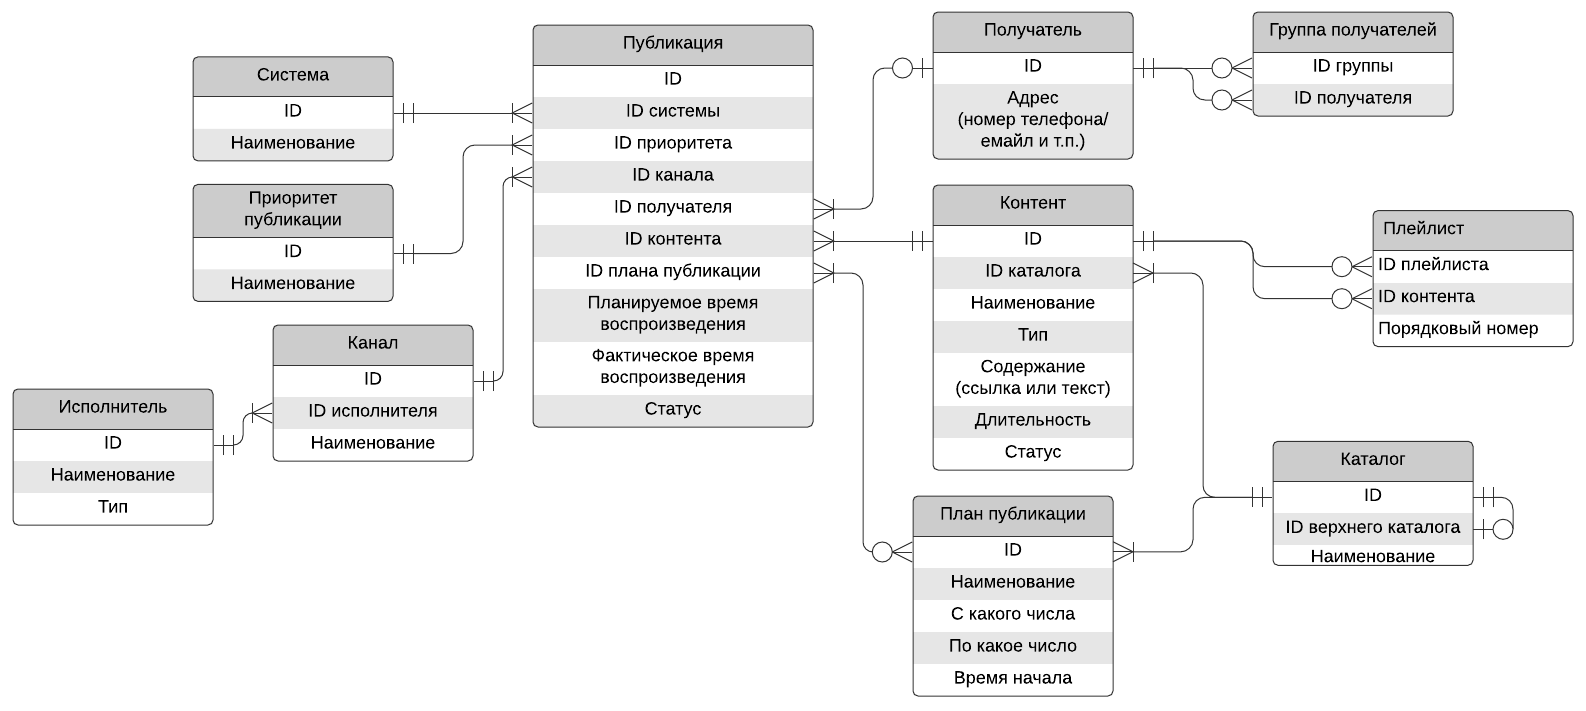
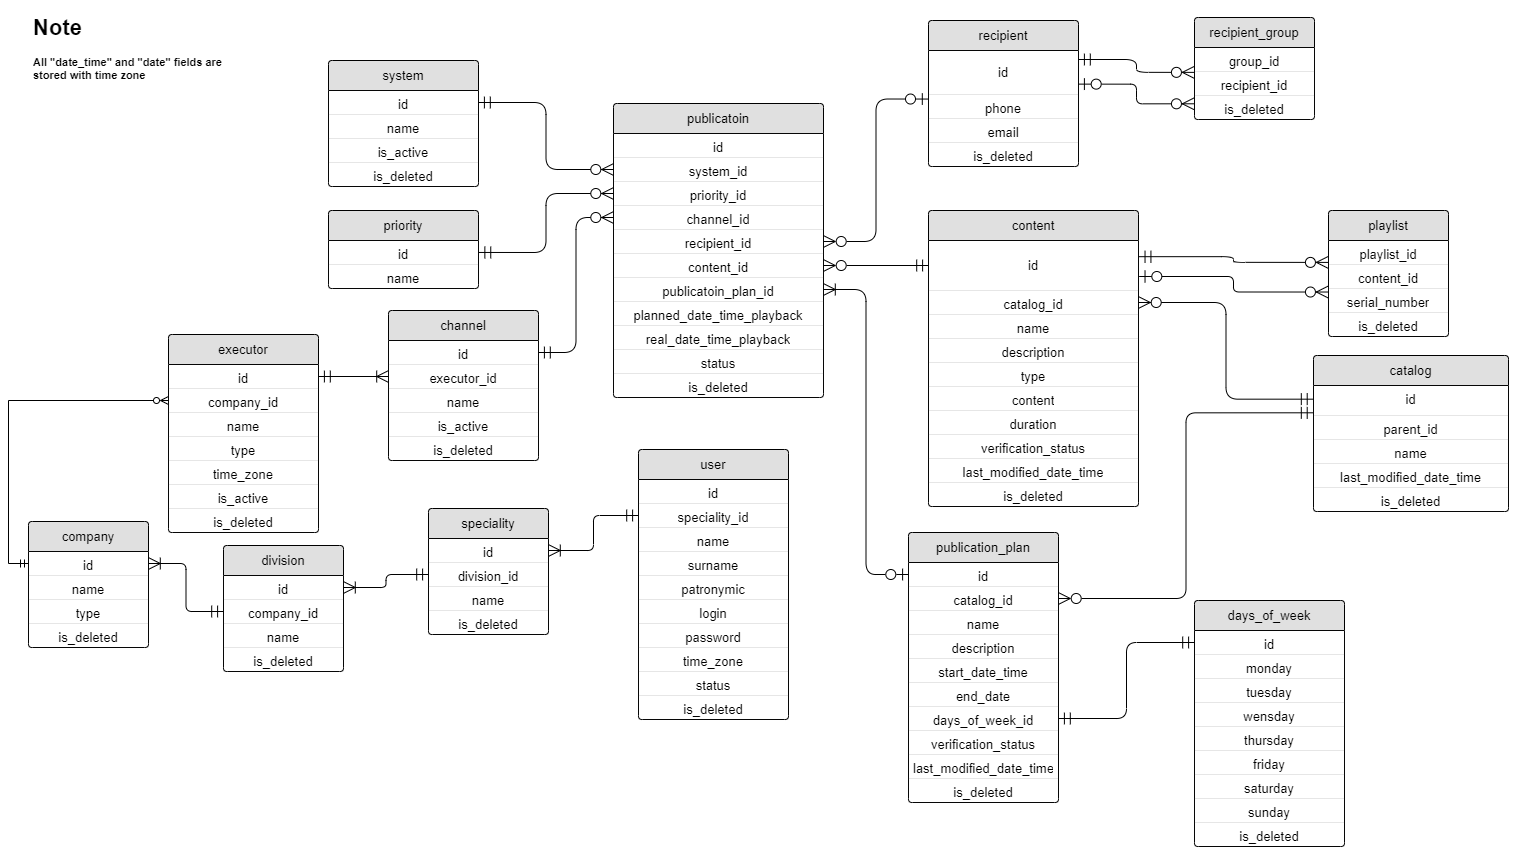
Обновлена база данных и ее схема

Changed region(s): [[0.0, 0.0, 1.0, 0.9902], [0.7411, 0.557, 0.9882, 1.0], [0.1544, 0.7736, 0.2162, 0.8045]]

diff --git a/vokzal-documentation.md b/vokzal-documentation.md
@@ -44,16 +44,16 @@ ___
 * Событие - ситуация во внешней среде, о которой нужно проинформировать.
 События делятся на типы. Когда событие происходит его тип и информация о нем передается внешним источником в систему.
 * Шаблон события - файл, в который подставляется, передаваемая с типом события. Для большинства типов события задан шаблон.
-* Контент - аудио-, видео- или текстовый файл.
-* Плейлист - отсортированный список пронумерованного контента, публикуемый и исполняемый целиком.
 * Действие - операция, совершаемая при обработке события.
 * Сценарий - последовательность действий.
-* Публикация - совокупность контента и информации о том, как его публиковать
+* Контент (content) - аудио-, видео- или текстовый файл.
+* Плейлист (playlist) - отсортированный список пронумерованного контента, публикуемый и исполняемый целиком.
+* Публикация (publication) - совокупность контента и информации о том, как его публиковать
 (приоритет публикации, какая система ее создала, кому она адресована, в какое время планируем ее воспроизвести,
 в какое время она была воспроизведена, длительность, статус).
-* План публикации - алгоритм, описывающий сколько раз, в течении какого отрезка времени нужно повторять публикацию.
-* Получатель - человек, которого нужно проинформировать о событии или показать ему контент.
-* Группа получателей - получатели, объединенные по какому-либо общему признаку. Например, пассажиры одного рейса.
+* План публикации (publication plan) - алгоритм, описывающий сколько раз, в течении какого отрезка времени нужно повторять публикацию.
+* Получатель (recipient) - человек, которого нужно проинформировать о событии или показать ему контент.
+* Группа получателей (recipient group) - получатели, объединенные по какому-либо общему признаку. Например, пассажиры одного рейса.
 
 ### Основные компоненты системы
 * Шлюз событий. Получает из внешней системы тип и информацию о событии, преобразует в формат понятный
@@ -69,7 +69,8 @@ ___
  На основе этой выборки сигнализирует шлюзу исполнения о том, что нужно показать тот или иной контент,
   передает шлюзу сам контент или ссылку на него.
 * Шлюз исполнения. Забирает контент из хранилища, если необходимо форматирует и передает исполнителю.
-* Исполнитель - внешние устройство, показывающее контент пассажирам. Исполнитель имеет один и более каналов для показа контента.
+* Исполнитель (executor) - внешние устройство, показывающее контент пассажирам. Исполнитель имеет один или более каналов для показа контента.
+* Канал (channel) - компонент исполнителя, предназначенный для вывода информации.
 
 
   ![](pictures/skhema_vzaimodeystvia_componentov.png "Схема взаимодействия компонентов")
@@ -88,27 +89,133 @@ ___
 ![](pictures/componenti_servernoy_chasti.png "Схема взаимодействия компонентов серверной части")
 
 ### Схема базы данных
-Основной сущностью в базе данных является публикация. Она имеет следующие поля:
-* ID
-* ID системы (СОС или СФП), создавшей запись в таблице "Публикация".
-* ID приоритета. Приоритет показывает насколько важно показать пассажирам контент из публикации
-* ID канала. В таблице "Исполнитель" хранится информация об устройстве, на которое передается контент.
-Устройство может иметь несколько каналов вывода (например, динамик с разными каналами). В таблице "Канал"
-хранится информация о каналах, на которые посылается публикация.
-* ID получателя. Указывается при отправке публикации СМС-сообщением или на почту.
-* ID контента, который будет показан пассажирам.
-* ID плана публикации, в соответствии с которым публикация была создана.
-* Планируемое время воспроизведения публикации.
-* Фактическое время воспроизведения публикации.
-* Статус публикации
 
-В базе данных плейлист хранится как контент, в который вложен другой контент. То есть если поле ID в таблице 
-"Контент" связано с полем ID плейлиста в таблице "Плейлист", то этот контент является плейлистом. Если поле ID в таблице
-"Контент" связано с полем ID контента в таблице "Плейлист", то этот контент входит в плейлист, ID которого записано в 
-поле ID плейлиста, порядковый номер этого контента в плейлисте записан в поле Порядковый номер.
+_Примечание. Все поля date_time и date хранятся с часовым поясом._
+
+**system - таблица систем (СОС, СФП)**
+* name - наименования системы
+* is_active - показывает, в рабочем ли состоянии система (true, false)
+* is_deleted - удалена ли система (true, false; записи в базе не удаляются, а помечаются как удаленные)
 
 
-Аналогично, группа получателей является получателем, содержащим других получателей.
+**executor - таблица исполнителей**
+* company_id - id компании, которой принадлежит исполнитель
+* name - наименование исполнителя
+* type - тип исполнителя (динамик, табло, устройство для отправки смс или электронной почты)
+* time_zone - часовой пояс, в котором находится исполнитель
+* is_active - показывает, в рабочем ли состоянии устройство (true, false)
+* is_deleted - удален ли исполнитель (true, false)
+
+
+**channel - таблица каналов**
+* device_id - id исполнителя, к которому принадлежит канал
+* name - наименование канала
+* is_active - показывает, в рабочем ли состоянии канал (true, false)
+* is_deleted - удален ли канал (true, false)
+
+
+**recipient - таблица получателей**
+* phone - номер телефона
+* email - электронная почта
+* is_deleted - удален ли получатель (true, false)
+
+
+**recipient_group - таблица для связи групп и получателей**
+
+Группа получателей хранится в базе как получатель, включающий в себя других получателей.
+То есть, если запись в таблице recipient связана с записью в таблице recipient_group по group_id,
+то этот получатель является группой. Если запись в таблице recipient связана с записью в таблице recipient_group
+по recipient_id, то этот получатель входит в группу.
+* group_id - показывает, какая запись в таблице получателей является группой
+* recipient_id - показывает, что получатель, id которого записан в этом поле, принадлежит группе, id которой
+записан в поле group_id
+* is_deleted - удалена ли связь (true, false)
+
+
+**content - таблица контента**
+* catalog_id - id каталога, в котором находится контент
+* name - наименование контента
+* description - описание контента
+* type - тип контента (видео, аудио, текст)
+* content - содержание контента (текст или ссылка на файл в хранилище контента)
+* duration - длительность контента (для аудио- или видео-контента)
+* verification_status - статус проверки (не проверен, допущен, не допущен)
+* last_modified_date_time - дата последнего изменения
+* is_deleted - удален ли контент (true, false)
+
+
+**playlist - таблица для связи контента и плейлистов**
+
+Плейлист хранится в базе как контент, содержащий другой контент, аналогично с группой получателей.
+* playlist_id - показывает, какой контент является плейлистом
+* content_id - показывает, что контент входит в плейлист
+* is_deleted - удалена ли связь (true, false)
+
+
+**catalog - таблица каталогов**
+* parent - id каталога, в котором находится данный
+* name - наименование каталога
+* last_modified_date_time - дата и время последнего изменения
+* is_deleted - удален ли каталог (true, false)
+
+**publication_plan - таблица планов публикации**
+* catalog_id - id каталога, в котором находится данный план
+* name - наименование плана публикации
+* description - описание плана публикации
+* start_date_time - дата и время начала публикации
+* end_date - дата окончания публикации
+* days_of_week_id - id записи в таблице days_of_week, показывающей по каким дням недели нужно публиковать
+* verification_status - статус проверки (не проверен, допущен, не допущен)
+* last_modified_date_time - дата и время последнего изменения
+* is_deleted - удален ли план публикации (true, false)
+
+**priority - таблица приоритетов публикации**
+* id - чем больше id, тем приоритетнее публикация
+* name - наименование приоритета
+
+**publication - таблица публикаций**
+* system_id - id системы, создавшей публикацию
+* priority_id - id приоритета публикации
+* channel_id - id канала, на который будет передана публикация
+* recipient_id - id получателя
+* content_id - id контента, который содержит публикация
+* publication_plan_id - id плана публикации
+* planned_date_time_playback - запланированная дата и время публикации
+* real_date_time_playback - настоящая дата и время публикации
+* status - статус публикации (выполнена, отложена, отменена)
+* is_deleted - удалена ли публикация (true, false)
+
+**company - таблица предприятий, работающих в системе**
+* name - наименование предприятия
+* type - тип предприятия (предположительно: вокзал, рекламодатель, перевозчик)
+* is_deleted - удалено ли предприятие (true, false)
+
+**division - таблица подразделений**
+* company_id - компания, к которой относится подразделение
+* name - имя подразделение
+* is_deleted - удалено ли подразделение (true, false)
+
+**speciality - таблица специальностей**
+* division_id - id подразделения, к которому относится данная специальность
+* name - наименование специальности
+* is_deleted - удалена ли специальность (true, false)
+
+**user - таблица пользователей**
+* speciality_id - id специальности пользователя
+* name - имя
+* surname - фамилия
+* patronymic - отчество
+* login - логин
+* password - пароль
+* time_zone - часовой пояс, в котором находится пользователь
+* status - статус пользователя (предположительно: активен, не активен (отпуск, болезнь), заблокирован)
+* is_deleted - удален ли пользователь (true, false)
+
+
+
+
+
+
 
 
 ![](pictures/baza_dannih.png "Схема базы данных")
